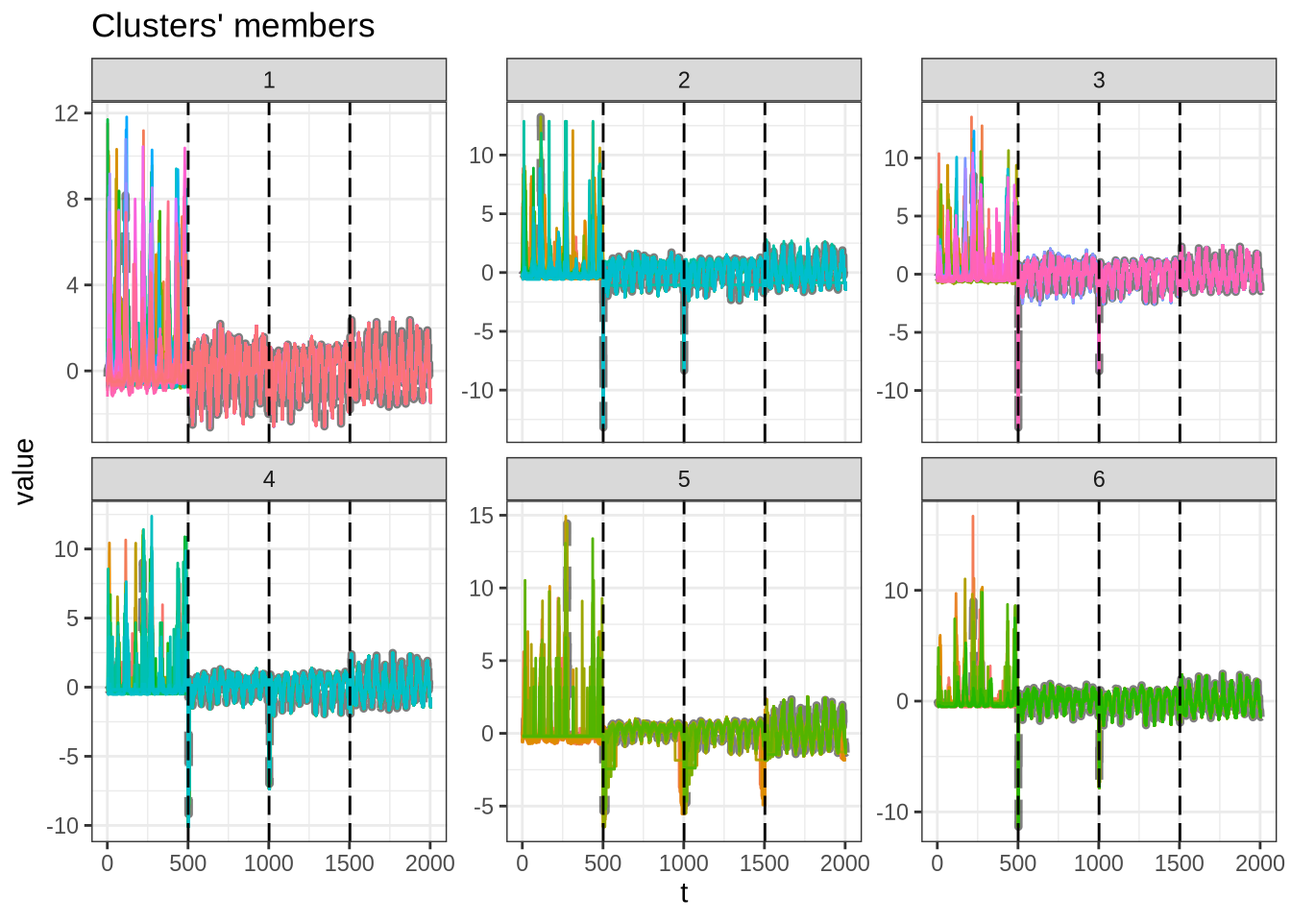
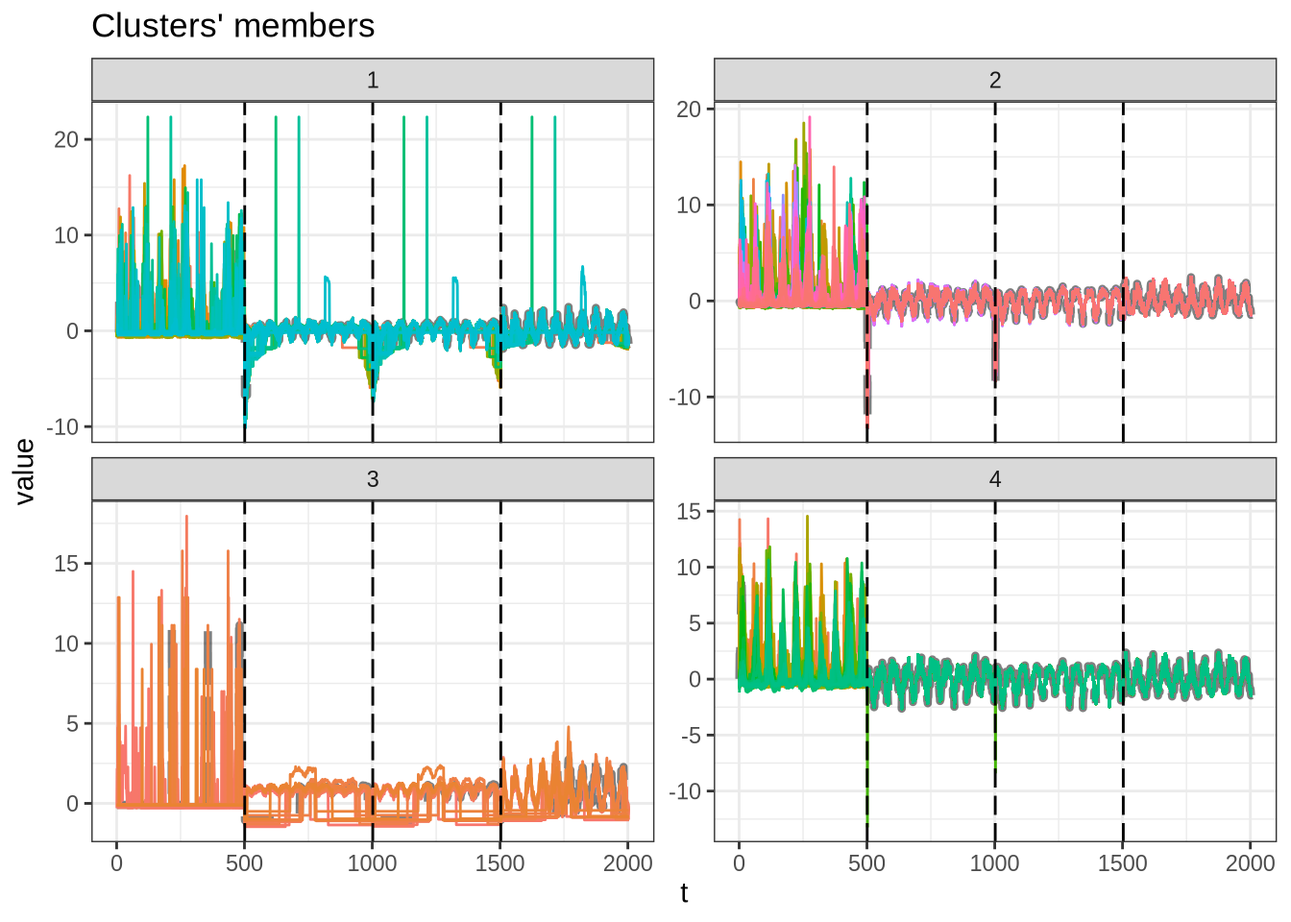
cluster run

diff --git a/docs/dengue-cluster/cluster_multivariate_all.html b/docs/dengue-cluster/cluster_multivariate_all.html
@@ -644,13 +644,13 @@ gtag('config', 'G-ZMP18L536K', { 'anonymize_ip': true});
 <span id="cb2-4"><a href="#cb2-4" aria-hidden="true" tabindex="-1"></a></span>
 <span id="cb2-5"><a href="#cb2-5" aria-hidden="true" tabindex="-1"></a><span class="fu">dim</span>(tdengue)</span></code><button title="Copy to Clipboard" class="code-copy-button"><i class="bi"></i></button></pre></div>
 <div class="cell-output cell-output-stdout">
-<pre><code>[1] 163326      6</code></pre>
+<pre><code>[1] 340179      6</code></pre>
 </div>
 </div>
 <div class="cell">
 <div class="sourceCode cell-code" id="cb4"><pre class="sourceCode r code-with-copy"><code class="sourceCode r"><span id="cb4-1"><a href="#cb4-1" aria-hidden="true" tabindex="-1"></a><span class="fu">length</span>(<span class="fu">unique</span>(tdengue<span class="sc">$</span>mun))</span></code><button title="Copy to Clipboard" class="code-copy-button"><i class="bi"></i></button></pre></div>
 <div class="cell-output cell-output-stdout">
-<pre><code>[1] 326</code></pre>
+<pre><code>[1] 679</code></pre>
 </div>
 </div>
 <p>Data for maps.</p>
@@ -692,11 +692,11 @@ gtag('config', 'G-ZMP18L536K', { 'anonymize_ip': true});
   ..- attr(*, "dimnames")=List of 2
   .. ..$ : NULL
   .. ..$ : chr [1:4] "cases" "tmax" "tmin" "prec"
- $ 110012: num [1:501, 1:4] -0.4493 0.6488 1.1979 0.0997 0.0997 ...
+ $ 110004: num [1:501, 1:4] -0.3964 -0.1824 0.0316 -0.3964 0.0316 ...
   ..- attr(*, "dimnames")=List of 2
   .. ..$ : NULL
   .. ..$ : chr [1:4] "cases" "tmax" "tmin" "prec"
- $ 110020: num [1:501, 1:4] -0.5195 0.1563 0.0718 -0.1816 0.3253 ...
+ $ 110011: num [1:501, 1:4] -0.392 -0.392 -0.392 -0.392 -0.392 ...
   ..- attr(*, "dimnames")=List of 2
   .. ..$ : NULL
   .. ..$ : chr [1:4] "cases" "tmax" "tmin" "prec"</code></pre>
@@ -716,7 +716,7 @@ gtag('config', 'G-ZMP18L536K', { 'anonymize_ip': true});
 <span id="cb14-7"><a href="#cb14-7" aria-hidden="true" tabindex="-1"></a>)</span>
 <span id="cb14-8"><a href="#cb14-8" aria-hidden="true" tabindex="-1"></a><span class="fu">toc</span>()</span></code><button title="Copy to Clipboard" class="code-copy-button"><i class="bi"></i></button></pre></div>
 <div class="cell-output cell-output-stdout">
-<pre><code>8.622 sec elapsed</code></pre>
+<pre><code>36.448 sec elapsed</code></pre>
 </div>
 </div>
 <section id="cluster-validity-indices-cvi" class="level3">
@@ -731,8 +731,8 @@ gtag('config', 'G-ZMP18L536K', { 'anonymize_ip': true});
 <span id="cb16-7"><a href="#cb16-7" aria-hidden="true" tabindex="-1"></a><span class="fu">datatable</span>(res_cvi)</span></code><button title="Copy to Clipboard" class="code-copy-button"><i class="bi"></i></button></pre></div>
 <div class="cell-output-display">
 
-<div class="datatables html-widget html-fill-item-overflow-hidden html-fill-item" id="htmlwidget-2228f0057e4179a1f21e" style="width:100%;height:auto;"></div>
-<script type="application/json" data-for="htmlwidget-2228f0057e4179a1f21e">{"x":{"filter":"none","vertical":false,"data":[["1","2","3","4","5","6","7","8","9","10","11","12","13","14","15","16","17","18"],["k_6","k_5","k_14","k_4","k_11","k_15","k_10","k_3","k_19","k_8","k_20","k_17","k_9","k_18","k_16","k_12","k_13","k_7"],[0.1530297469356477,0.1440762044713745,0.1400584225015963,0.1354547579634003,0.1208323157407356,0.1105893378279768,0.1095486174706609,0.1094875020359826,0.1089257116601769,0.09797794633096432,0.09210995555770808,0.09154821081714312,0.08908547609352244,0.08260358364305846,0.08129072667558394,0.07136656410796276,0.06131959166201611,0.03334285681935422],[0,0,0,0,0,0,0,0,0,0,0,0,0,0,0,0,0,0],[66.03871539724065,70.83730006839602,31.05107538599962,73.72133754541019,36.74893705232316,28.20357775100776,37.92326564538576,132.799072097871,23.39248613274816,46.02250861410634,22.58194920998412,26.34562406898972,41.3226490792125,23.70068122356517,25.71442726657208,34.46339975166363,32.37456572009118,39.47010817257704],[2.016717468165261,1.939575756275471,1.569492045784807,1.80846374856984,1.796855644968916,1.82821826051781,1.95121179376399,1.799833628541421,1.807197655292344,2.345528320027988,1.722026296063557,1.938822173588695,2.109041983689778,2.018107368640858,1.794717064569474,2.306726907779244,2.044140737665228,2.491651988726502],[2.831176268818642,2.347999367208251,1.951876574122824,1.819376903904833,2.284181270249329,2.69986132475828,2.646232116412836,1.876632643543888,2.300494532526559,3.133500281328306,2.29180932440963,2.597457610600983,2.915782300990952,2.656927220913814,2.672091378347231,2.968123486807218,2.857604373450767,2.757466387210257],[0.06404119331825649,0.05293480520822988,0.07478527348838045,0.07474487852441768,0.06461003914169353,0.09877742552571456,0.09261909518077052,0.05288796621815163,0.1010807627526162,0.06404119331825649,0.1020234877438586,0.07528597865196485,0.06974269565671985,0.05311861964957065,0.06407529214486364,0.0469497174971813,0.04481128132921332,0.05903396603380133],[0.2750364644880977,0.29375881890079,0.2368916791190641,0.3655863370523117,0.2495944625836389,0.2381982078210064,0.251850261562682,0.3672949506522975,0.2234764172064207,0.2688587067005322,0.2203517930010253,0.2249012289596225,0.2632677092874243,0.2320771535639892,0.2380825819007399,0.2470739370001668,0.2455732801168612,0.3216543774674874]],"container":"<table class=\"display\">\n  <thead>\n    <tr>\n      <th> <\/th>\n      <th>k<\/th>\n      <th>Sil<\/th>\n      <th>SF<\/th>\n      <th>CH<\/th>\n      <th>DB<\/th>\n      <th>DBstar<\/th>\n      <th>D<\/th>\n      <th>COP<\/th>\n    <\/tr>\n  <\/thead>\n<\/table>","options":{"columnDefs":[{"className":"dt-right","targets":[2,3,4,5,6,7,8]},{"orderable":false,"targets":0}],"order":[],"autoWidth":false,"orderClasses":false},"selection":{"mode":"multiple","selected":null,"target":"row","selectable":null}},"evals":[],"jsHooks":[]}</script>
+<div class="datatables html-widget html-fill-item-overflow-hidden html-fill-item" id="htmlwidget-8dbda73ab474727ec260" style="width:100%;height:auto;"></div>
+<script type="application/json" data-for="htmlwidget-8dbda73ab474727ec260">{"x":{"filter":"none","vertical":false,"data":[["1","2","3","4","5","6","7","8","9","10","11","12","13","14","15","16","17","18"],["k_4","k_3","k_6","k_14","k_5","k_11","k_8","k_7","k_20","k_9","k_19","k_10","k_16","k_15","k_13","k_12","k_18","k_17"],[0.2579966108105268,0.222003513340281,0.1940848242336921,0.1603462959087116,0.1408051171738664,0.1198010833966462,0.1168796085403005,0.1102495462483977,0.1005634159177213,0.09701193998484331,0.09317547525047665,0.09198938214383687,0.09193315470589795,0.0903714377163376,0.08679094836253091,0.04728573441530437,0.04651389641668757,0.02830600718012035],[0,0,0,0,0,0,0,0,0,0,0,0,0,0,0,0,0,0],[208.0685886679036,261.5026959680235,130.4655024406249,72.07702462214986,170.9633359795715,84.34174695632748,77.4429961054129,125.9068896745097,51.93713964585567,95.62065919765602,49.98069606833911,76.70149700390195,58.93594265437236,58.0581565656983,73.50933405468341,63.65979599574922,49.18129182084131,52.62533978880315],[1.209641169200358,1.6985977195809,1.919409697371403,1.805195576590609,1.707285961562169,2.267250561388554,2.433620070193141,1.906918124639444,2.020573584159897,1.811837705195486,2.035899119828682,2.144914150547419,2.161829461796213,2.277535085175582,1.680065889820462,2.139457333691512,2.32488743717625,2.544158035553971],[1.388821641530677,1.858941500608313,2.480044646442662,2.234169531931442,2.200081375326834,3.230101107065129,3.287115726187246,2.401993652475728,2.639877185675683,2.369446379087012,2.644868268877131,2.603413803675805,2.989550402332914,2.738664008104241,2.514077583972165,3.046887210508611,3.27479631386645,3.623229739807331],[0.04623492839976677,0.04623492839976677,0.05708222609110557,0.03997317877205291,0.05724694180353935,0.04585091484265355,0.0612818933157248,0.04700333737426738,0.03050685626010153,0.04761684327152707,0.04444298708332996,0.04723643483074268,0.0466129416408682,0.04510162762339438,0.05094497672178931,0.04629757569928765,0.03170409573216738,0.04063751957176565],[0.2763202711483752,0.3275502084423959,0.2692042591368208,0.2054671866711874,0.2809295824974267,0.2248800208336796,0.2857369998102969,0.2536575486220644,0.1977004642347356,0.2393425953127742,0.2103113665348897,0.2499245873936215,0.2222008498448561,0.2337980317455434,0.226198714699332,0.2467854729960304,0.2334042477223152,0.2278244658116685]],"container":"<table class=\"display\">\n  <thead>\n    <tr>\n      <th> <\/th>\n      <th>k<\/th>\n      <th>Sil<\/th>\n      <th>SF<\/th>\n      <th>CH<\/th>\n      <th>DB<\/th>\n      <th>DBstar<\/th>\n      <th>D<\/th>\n      <th>COP<\/th>\n    <\/tr>\n  <\/thead>\n<\/table>","options":{"columnDefs":[{"className":"dt-right","targets":[2,3,4,5,6,7,8]},{"orderable":false,"targets":0}],"order":[],"autoWidth":false,"orderClasses":false},"selection":{"mode":"multiple","selected":null,"target":"row","selectable":null}},"evals":[],"jsHooks":[]}</script>
 </div>
 </div>
 <div class="cell">
@@ -750,8 +750,8 @@ gtag('config', 'G-ZMP18L536K', { 'anonymize_ip': true});
 <div class="sourceCode cell-code" id="cb18"><pre class="sourceCode r code-with-copy"><code class="sourceCode r"><span id="cb18-1"><a href="#cb18-1" aria-hidden="true" tabindex="-1"></a><span class="fu">table</span>(m_sel_clust<span class="sc">@</span>cluster)</span></code><button title="Copy to Clipboard" class="code-copy-button"><i class="bi"></i></button></pre></div>
 <div class="cell-output cell-output-stdout">
 <pre><code>
- 1  2  3  4  5  6 
-91 48 84 47 27 29 </code></pre>
+  1   2   3   4 
+178 342  18 141 </code></pre>
 </div>
 </div>
 </section>
@@ -781,8 +781,8 @@ gtag('config', 'G-ZMP18L536K', { 'anonymize_ip': true});
 <span id="cb23-5"><a href="#cb23-5" aria-hidden="true" tabindex="-1"></a>  <span class="fu">datatable</span>()</span></code><button title="Copy to Clipboard" class="code-copy-button"><i class="bi"></i></button></pre></div>
 <div class="cell-output-display">
 
-<div class="datatables html-widget html-fill-item-overflow-hidden html-fill-item" id="htmlwidget-0a0473e6474226addf1e" style="width:100%;height:auto;"></div>
-<script type="application/json" data-for="htmlwidget-0a0473e6474226addf1e">{"x":{"filter":"none","vertical":false,"data":[["1","2","3","4","5","6","7","8","9","10","11","12","13","14","15","16","17","18","19","20","21","22","23","24","25","26","27","28","29","30","31","32","33","34","35","36","37","38","39","40","41","42","43","44","45","46","47","48","49","50","51","52","53","54","55","56","57","58","59","60","61","62","63","64","65","66","67","68","69","70","71","72","73","74","75","76","77","78","79","80","81","82","83","84","85","86","87","88","89","90","91","92","93","94","95","96","97","98","99","100","101","102","103","104","105","106","107","108","109","110","111","112","113","114","115","116","117","118","119","120","121","122","123","124","125","126","127","128","129","130","131","132","133","134","135","136","137","138","139","140","141","142","143","144","145","146","147","148","149","150","151","152","153","154","155","156","157","158","159","160","161","162","163","164","165","166","167","168","169","170","171","172","173","174","175","176","177","178","179","180","181","182","183","184","185","186","187","188","189","190","191","192","193","194","195","196","197","198","199","200","201","202","203","204","205","206","207","208","209","210","211","212","213","214","215","216","217","218","219","220","221","222","223","224","225","226","227","228","229","230","231","232","233","234","235","236","237","238","239","240","241","242","243","244","245","246","247","248","249","250","251","252","253","254","255","256","257","258","259","260","261","262","263","264","265","266","267","268","269","270","271","272","273","274","275","276","277","278","279","280","281","282","283","284","285","286","287","288","289","290","291","292","293","294","295","296","297","298","299","300","301","302","303","304","305","306","307","308","309","310","311","312","313","314","315","316","317","318","319","320","321","322","323","324","325","326"],["1","1","1","1","1","1","1","1","1","1","1","1","1","1","1","1","1","1","1","1","1","1","1","1","1","1","1","1","1","1","1","1","1","1","1","1","1","1","1","1","1","1","1","1","1","1","1","1","1","1","1","1","1","1","1","1","1","1","1","1","1","1","1","1","1","1","1","1","1","1","1","1","1","1","1","1","1","1","1","1","1","1","1","1","1","1","1","1","1","1","1","2","2","2","2","2","2","2","2","2","2","2","2","2","2","2","2","2","2","2","2","2","2","2","2","2","2","2","2","2","2","2","2","2","2","2","2","2","2","2","2","2","2","2","2","2","2","2","2","3","3","3","3","3","3","3","3","3","3","3","3","3","3","3","3","3","3","3","3","3","3","3","3","3","3","3","3","3","3","3","3","3","3","3","3","3","3","3","3","3","3","3","3","3","3","3","3","3","3","3","3","3","3","3","3","3","3","3","3","3","3","3","3","3","3","3","3","3","3","3","3","3","3","3","3","3","3","3","3","3","3","3","3","4","4","4","4","4","4","4","4","4","4","4","4","4","4","4","4","4","4","4","4","4","4","4","4","4","4","4","4","4","4","4","4","4","4","4","4","4","4","4","4","4","4","4","4","4","4","4","5","5","5","5","5","5","5","5","5","5","5","5","5","5","5","5","5","5","5","5","5","5","5","5","5","5","5","6","6","6","6","6","6","6","6","6","6","6","6","6","6","6","6","6","6","6","6","6","6","6","6","6","6","6","6","6"],["Abaetetuba","Alagoinhas","Altamira","Ananindeua","Aparecida De Goiânia","Aracaju","Araguari","Araguaína","Araraquara","Barreiras","Belo Horizonte","Belém","Boa Vista","Bragança","Brasília","Cametá","Campo Grande","Campos Dos Goytacazes","Castanhal","Catalão","Caucaia","Caxias","Coronel Fabriciano","Crato","Cuiabá","Duque De Caxias","Feira De Santana","Fortaleza","Foz Do Iguaçu","Goiânia","Governador Valadares","Guarapari","Igarassu","Iguatu","Imperatriz","Ipatinga","Itaituba","Itapipoca","João Pessoa","Juiz De Fora","Linhares","Londrina","Luziânia","Macapá","Macaé","Manaus","Marabá","Maracanaú","Marituba","Mossoró","Natal","Nilópolis","Niterói","Nova Iguaçu","Palmas","Parauapebas","Parintins","Patos","Patos De Minas","Petrópolis","Recife","Ribeirão Preto","Rio Branco","Rio Claro","Rio De Janeiro","Rio Verde","Salvador","Santa Luzia","Santana","Santarém","Senador Canedo","Sinop","Sumaré","São Félix Do Xingu","São Gonçalo","São José De Ribamar","São José Do Rio Preto","São José Dos Campos","São João De Meriti","São Luís","São Paulo","Taubaté","Teresina","Trindade","Tucuruí","Uberaba","Uberlândia","Varginha","Vespasiano","Vitória Da Conquista","Vitória De Santo Antão","Araruama","Ariquemes","Bagé","Barcarena","Barretos","Belford Roxo","Cabo Frio","Campina Grande","Corumbá","Cubatão","Eunápolis","Formosa","Garanhuns","Itaboraí","Itaperuna","Ituiutaba","Itumbiara","Japeri","Jequié","Juazeiro Do Norte","Lagarto","Magé","Maricá","Maringá","Mesquita","Montes Claros","Nova Serrana","Paragominas","Porto Seguro","Porto Velho","Praia Grande","Ribeirão Das Neves","Rio Das Ostras","Rondonópolis","Sabará","Santo Antônio De Jesus","Santos","Simões Filho","São Pedro Da Aldeia","São Vicente","Tailândia","Tangará Da Serra","Teófilo Otoni","Toledo","Três Lagoas","Ubá","Uruguaiana","Vilhena","Abreu E Lima","Americana","Angra Dos Reis","Anápolis","Arapiraca","Araxá","Araçatuba","Assis","Atibaia","Açailândia","Bacabal","Barueri","Bauru","Betim","Cabo De Santo Agostinho","Camaragibe","Camaçari","Campinas","Catanduva","Contagem","Curitiba","Diadema","Dourados","Embu","Franca","Francisco Morato","Guarujá","Guarulhos","Hortolândia","Ilhéus","Itabira","Itabuna","Itacoatiara","Itapecerica Da Serra","Itapevi","Itaquaquecetuba","Itatiba","Jaboatão Dos Guararapes","Jacareí","Jataí","Ji-Paraná","Juazeiro","Jundiaí","Lauro De Freitas","Lavras","Limeira","Maceió","Marília","Mogi Das Cruzes","Mogi Guaçu","Muriaé","Olinda","Osasco","Ourinhos","Parnamirim","Parnaíba","Passos","Paulista","Paulo Afonso","Paulínia","Paço Do Lumiar","Petrolina","Pindamonhangaba","Piracicaba","Ponta Grossa","Porto Alegre","Presidente Prudente","Resende","Santa Bárbara D'oeste","Santa Rita","Santo André","Sertãozinho","Sobral","Sorocaba","São Bernardo Do Campo","São Carlos","São Gonçalo Do Amarante","São José","São José Dos Pinhais","São Lourenço Da Mata","Timon","Valparaíso De Goiás","Volta Redonda","Várzea Grande","Apucarana","Araucária","Balneário Camboriú","Barbacena","Barra Do Piraí","Botucatu","Brusque","Cachoeirinha","Caieiras","Caraguatatuba","Carapicuíba","Caxias Do Sul","Codó","Colombo","Conselheiro Lafaiete","Cotia","Criciúma","Florianópolis","Franco Da Rocha","Guaratinguetá","Ibirité","Indaiatuba","Itajaí","Itanhaém","Itapetininga","Jaraguá Do Sul","Joinville","Leme","Nossa Senhora Do Socorro","Novo Hamburgo","Palhoça","Passo Fundo","Pinhais","Poços De Caldas","Queimados","Ribeirão Pires","Rio Grande","Salto","Santa Maria","Santana De Parnaíba","Taboão Da Serra","Teixeira De Freitas","Umuarama","Viamão","Votorantim","Várzea Paulista","Águas Lindas De Goiás","Alvorada","Aracruz","Bento Gonçalves","Breves","Cachoeiro De Itapemirim","Campo Largo","Canoas","Cariacica","Colatina","Erechim","Fazenda Rio Grande","Gravataí","Guarapuava","Lages","Mairiporã","Paranaguá","Pelotas","Piraquara","Santa Cruz Do Sul","Sapucaia Do Sul","Serra","São Leopoldo","São Mateus","Tatuí","Tubarão","Vila Velha","Vitória","Almirante Tamandaré","Arapongas","Araras","Barra Mansa","Birigui","Blumenau","Bragança Paulista","Cambé","Caruaru","Cascavel","Chapecó","Divinópolis","Ferraz De Vasconcelos","Itaguaí","Itu","Jandira","Jaú","Maranguape","Mauá","Nova Friburgo","Novo Gama","Pouso Alegre","Poá","Santa Cruz Do Capibaribe","Sete Lagoas","Suzano","São Caetano Do Sul","Teresópolis","Valinhos"],["PA","BA","PA","PA","GO","SE","MG","TO","SP","BA","MG","PA","RR","PA","DF","PA","MS","RJ","PA","GO","CE","MA","MG","CE","MT","RJ","BA","CE","PR","GO","MG","ES","PE","CE","MA","MG","PA","CE","PB","MG","ES","PR","GO","AP","RJ","AM","PA","CE","PA","RN","RN","RJ","RJ","RJ","TO","PA","AM","PB","MG","RJ","PE","SP","AC","SP","RJ","GO","BA","MG","AP","PA","GO","MT","SP","PA","RJ","MA","SP","SP","RJ","MA","SP","SP","PI","GO","PA","MG","MG","MG","MG","BA","PE","RJ","RO","RS","PA","SP","RJ","RJ","PB","MS","SP","BA","GO","PE","RJ","RJ","MG","GO","RJ","BA","CE","SE","RJ","RJ","PR","RJ","MG","MG","PA","BA","RO","SP","MG","RJ","MT","MG","BA","SP","BA","RJ","SP","PA","MT","MG","PR","MS","MG","RS","RO","PE","SP","RJ","GO","AL","MG","SP","SP","SP","MA","MA","SP","SP","MG","PE","PE","BA","SP","SP","MG","PR","SP","MS","SP","SP","SP","SP","SP","SP","BA","MG","BA","AM","SP","SP","SP","SP","PE","SP","GO","RO","BA","SP","BA","MG","SP","AL","SP","SP","SP","MG","PE","SP","SP","RN","PI","MG","PE","BA","SP","MA","PE","SP","SP","PR","RS","SP","RJ","SP","PB","SP","SP","CE","SP","SP","SP","RN","SC","PR","PE","MA","GO","RJ","MT","PR","PR","SC","MG","RJ","SP","SC","RS","SP","SP","SP","RS","MA","PR","MG","SP","SC","SC","SP","SP","MG","SP","SC","SP","SP","SC","SC","SP","SE","RS","SC","RS","PR","MG","RJ","SP","RS","SP","RS","SP","SP","BA","PR","RS","SP","SP","GO","RS","ES","RS","PA","ES","PR","RS","ES","ES","RS","PR","RS","PR","SC","SP","PR","RS","PR","RS","RS","ES","RS","ES","SP","SC","ES","ES","PR","PR","SP","RJ","SP","SC","SP","PR","PE","PR","SC","MG","SP","RJ","SP","SP","SP","CE","SP","RJ","GO","MG","SP","PE","MG","SP","SP","RJ","SP"]],"container":"<table class=\"display\">\n  <thead>\n    <tr>\n      <th> <\/th>\n      <th>group<\/th>\n      <th>name_muni<\/th>\n      <th>abbrev_state<\/th>\n    <\/tr>\n  <\/thead>\n<\/table>","options":{"columnDefs":[{"orderable":false,"targets":0}],"order":[],"autoWidth":false,"orderClasses":false},"selection":{"mode":"multiple","selected":null,"target":"row","selectable":null}},"evals":[],"jsHooks":[]}</script>
+<div class="datatables html-widget html-fill-item-overflow-hidden html-fill-item" id="htmlwidget-2228f0057e4179a1f21e" style="width:100%;height:auto;"></div>
+<script type="application/json" data-for="htmlwidget-2228f0057e4179a1f21e">{"x":{"filter":"none","vertical":false,"data":[["1","2","3","4","5","6","7","8","9","10","11","12","13","14","15","16","17","18","19","20","21","22","23","24","25","26","27","28","29","30","31","32","33","34","35","36","37","38","39","40","41","42","43","44","45","46","47","48","49","50","51","52","53","54","55","56","57","58","59","60","61","62","63","64","65","66","67","68","69","70","71","72","73","74","75","76","77","78","79","80","81","82","83","84","85","86","87","88","89","90","91","92","93","94","95","96","97","98","99","100","101","102","103","104","105","106","107","108","109","110","111","112","113","114","115","116","117","118","119","120","121","122","123","124","125","126","127","128","129","130","131","132","133","134","135","136","137","138","139","140","141","142","143","144","145","146","147","148","149","150","151","152","153","154","155","156","157","158","159","160","161","162","163","164","165","166","167","168","169","170","171","172","173","174","175","176","177","178","179","180","181","182","183","184","185","186","187","188","189","190","191","192","193","194","195","196","197","198","199","200","201","202","203","204","205","206","207","208","209","210","211","212","213","214","215","216","217","218","219","220","221","222","223","224","225","226","227","228","229","230","231","232","233","234","235","236","237","238","239","240","241","242","243","244","245","246","247","248","249","250","251","252","253","254","255","256","257","258","259","260","261","262","263","264","265","266","267","268","269","270","271","272","273","274","275","276","277","278","279","280","281","282","283","284","285","286","287","288","289","290","291","292","293","294","295","296","297","298","299","300","301","302","303","304","305","306","307","308","309","310","311","312","313","314","315","316","317","318","319","320","321","322","323","324","325","326","327","328","329","330","331","332","333","334","335","336","337","338","339","340","341","342","343","344","345","346","347","348","349","350","351","352","353","354","355","356","357","358","359","360","361","362","363","364","365","366","367","368","369","370","371","372","373","374","375","376","377","378","379","380","381","382","383","384","385","386","387","388","389","390","391","392","393","394","395","396","397","398","399","400","401","402","403","404","405","406","407","408","409","410","411","412","413","414","415","416","417","418","419","420","421","422","423","424","425","426","427","428","429","430","431","432","433","434","435","436","437","438","439","440","441","442","443","444","445","446","447","448","449","450","451","452","453","454","455","456","457","458","459","460","461","462","463","464","465","466","467","468","469","470","471","472","473","474","475","476","477","478","479","480","481","482","483","484","485","486","487","488","489","490","491","492","493","494","495","496","497","498","499","500","501","502","503","504","505","506","507","508","509","510","511","512","513","514","515","516","517","518","519","520","521","522","523","524","525","526","527","528","529","530","531","532","533","534","535","536","537","538","539","540","541","542","543","544","545","546","547","548","549","550","551","552","553","554","555","556","557","558","559","560","561","562","563","564","565","566","567","568","569","570","571","572","573","574","575","576","577","578","579","580","581","582","583","584","585","586","587","588","589","590","591","592","593","594","595","596","597","598","599","600","601","602","603","604","605","606","607","608","609","610","611","612","613","614","615","616","617","618","619","620","621","622","623","624","625","626","627","628","629","630","631","632","633","634","635","636","637","638","639","640","641","642","643","644","645","646","647","648","649","650","651","652","653","654","655","656","657","658","659","660","661","662","663","664","665","666","667","668","669","670","671","672","673","674","675","676","677","678","679"],["1","1","1","1","1","1","1","1","1","1","1","1","1","1","1","1","1","1","1","1","1","1","1","1","1","1","1","1","1","1","1","1","1","1","1","1","1","1","1","1","1","1","1","1","1","1","1","1","1","1","1","1","1","1","1","1","1","1","1","1","1","1","1","1","1","1","1","1","1","1","1","1","1","1","1","1","1","1","1","1","1","1","1","1","1","1","1","1","1","1","1","1","1","1","1","1","1","1","1","1","1","1","1","1","1","1","1","1","1","1","1","1","1","1","1","1","1","1","1","1","1","1","1","1","1","1","1","1","1","1","1","1","1","1","1","1","1","1","1","1","1","1","1","1","1","1","1","1","1","1","1","1","1","1","1","1","1","1","1","1","1","1","1","1","1","1","1","1","1","1","1","1","1","1","1","1","1","1","2","2","2","2","2","2","2","2","2","2","2","2","2","2","2","2","2","2","2","2","2","2","2","2","2","2","2","2","2","2","2","2","2","2","2","2","2","2","2","2","2","2","2","2","2","2","2","2","2","2","2","2","2","2","2","2","2","2","2","2","2","2","2","2","2","2","2","2","2","2","2","2","2","2","2","2","2","2","2","2","2","2","2","2","2","2","2","2","2","2","2","2","2","2","2","2","2","2","2","2","2","2","2","2","2","2","2","2","2","2","2","2","2","2","2","2","2","2","2","2","2","2","2","2","2","2","2","2","2","2","2","2","2","2","2","2","2","2","2","2","2","2","2","2","2","2","2","2","2","2","2","2","2","2","2","2","2","2","2","2","2","2","2","2","2","2","2","2","2","2","2","2","2","2","2","2","2","2","2","2","2","2","2","2","2","2","2","2","2","2","2","2","2","2","2","2","2","2","2","2","2","2","2","2","2","2","2","2","2","2","2","2","2","2","2","2","2","2","2","2","2","2","2","2","2","2","2","2","2","2","2","2","2","2","2","2","2","2","2","2","2","2","2","2","2","2","2","2","2","2","2","2","2","2","2","2","2","2","2","2","2","2","2","2","2","2","2","2","2","2","2","2","2","2","2","2","2","2","2","2","2","2","2","2","2","2","2","2","2","2","2","2","2","2","2","2","2","2","2","2","2","2","2","2","2","2","2","2","2","2","2","2","2","2","2","2","2","2","2","2","2","2","2","2","2","2","2","2","2","2","2","2","2","2","2","2","2","2","2","2","2","2","3","3","3","3","3","3","3","3","3","3","3","3","3","3","3","3","3","3","4","4","4","4","4","4","4","4","4","4","4","4","4","4","4","4","4","4","4","4","4","4","4","4","4","4","4","4","4","4","4","4","4","4","4","4","4","4","4","4","4","4","4","4","4","4","4","4","4","4","4","4","4","4","4","4","4","4","4","4","4","4","4","4","4","4","4","4","4","4","4","4","4","4","4","4","4","4","4","4","4","4","4","4","4","4","4","4","4","4","4","4","4","4","4","4","4","4","4","4","4","4","4","4","4","4","4","4","4","4","4","4","4","4","4","4","4","4","4","4","4","4","4","4","4","4","4","4","4","4","4","4","4","4","4","4","4","4","4","4","4"],["Alegrete","Alfenas","Alvorada","Araci","Aracruz","Araranguá","Araucária","Artur Nogueira","Barbacena","Barreirinhas","Bayeux","Bento Gonçalves","Bezerros","Biguaçu","Botucatu","Brejo Da Madre De Deus","Breu Branco","Breves","Buriticupu","Buíque","Cachoeira Do Sul","Cachoeirinha","Cachoeiro De Itapemirim","Caetité","Cajazeiras","Camaquã","Camboriú","Campo Belo","Campo Formoso","Campo Largo","Campo Limpo Paulista","Campo Mourão","Campos Do Jordão","Candeias","Canoas","Capitão Poço","Carazinho","Cariacica","Casa Nova","Catu","Caxias Do Sul","Caçador","Caçapava","Cerquilho","Codó","Colatina","Colombo","Concórdia","Congonhas","Coruripe","Cosmópolis","Cotia","Criciúma","Cristalina","Cruz Alta","Cruz Das Almas","Dias D'ávila","Dom Eliseu","Embu-Guaçu","Erechim","Escada","Esmeraldas","Esteio","Estância Velha","Euclides Da Cunha","Fazenda Rio Grande","Formiga","Franco Da Rocha","Gaspar","Gravataí","Guapimirim","Guarapuava","Guaíba","Ibirité","Ibiúna","Ijuí","Indaial","Ipirá","Irati","Itaberaba","Itamaraju","Itapema","Itapetinga","Itapetininga","Itapeva","Itararé","Itaúna","Itupeva","Itupiranga","Içara","Jaru","Joinville","Lages","Lajeado","Leme","Lençóis Paulista","Mafra","Mairiporã","Manicoré","Mariana","Navegantes","Nossa Senhora Do Socorro","Nova Odessa","Nova Venécia","Novo Hamburgo","Ouro Preto","Palmas","Paracambi","Paranaguá","Paranavaí","Pará De Minas","Passo Fundo","Pato Branco","Pedro Leopoldo","Pelotas","Penápolis","Pesqueira","Picos","Piedade","Pinhais","Pinheiro","Piraquara","Portel","Porto Feliz","Poços De Caldas","Registro","Ribeirão Pires","Rio Grande","Rio Grande Da Serra","Rolim De Moura","Rondon Do Pará","Santa Cruz Do Sul","Santa Maria","Santa Rosa","Santana Do Araguaia","Santo Estêvão","Santo Ângelo","Sapiranga","Sapucaia Do Sul","Sapé","Serra","São Bento Do Sul","São Bento Do Una","São Borja","São Cristóvão","São Francisco Do Sul","São João Da Boa Vista","São João Del Rei","São Leopoldo","São Mateus","São Miguel Do Guamá","São Roque","Taquara","Taquaritinga","Tatuí","Teixeira De Freitas","Telêmaco Borba","Tomé-Açu","Três Pontas","Três Rios","Tubarão","Umuarama","Unaí","União Dos Palmares","Valença","Vargem Grande Paulista","Venâncio Aires","Viamão","Viana","Viana","Videira","Vigia","Vila Velha","Vinhedo","Vitória","Viçosa Do Ceará","Votorantim","Xanxerê","Abreu E Lima","Acaraú","Alenquer","Almirante Tamandaré","Alta Floresta","Americana","Angra Dos Reis","Anápolis","Apucarana","Aquiraz","Aracati","Arapiraca","Arapongas","Araras","Araripina","Araruama","Araxá","Araçatuba","Arcoverde","Ariquemes","Arujá","Assis","Atibaia","Avaré","Açailândia","Açu","Bacabal","Balneário Camboriú","Balsas","Barbalha","Barcarena","Barra","Barra Do Garças","Barra Do Piraí","Barra Mansa","Barretos","Barueri","Batatais","Bauru","Bebedouro","Beberibe","Belford Roxo","Belo Jardim","Benevides","Bertioga","Betim","Birigui","Blumenau","Bocaiúva","Boituva","Bom Despacho","Bragança Paulista","Brusque","Cabedelo","Cabo De Santo Agostinho","Cabo Frio","Cabreúva","Cachoeiras De Macacu","Cacoal","Caicó","Caieiras","Cajamar","Camaragibe","Camaçari","Cambé","Camocim","Campina Grande","Campo Alegre","Canindé","Capanema","Capivari","Caraguatatuba","Carapicuíba","Caratinga","Caruaru","Cascavel","Cataguases","Catanduva","Ceará-Mirim","Chapecó","Cianorte","Cidade Ocidental","Conceição Do Coité","Conselheiro Lafaiete","Contagem","Coroatá","Corumbá","Cruzeiro","Cruzeiro Do Sul","Cubatão","Curitiba","Cáceres","Delmiro Gouveia","Diadema","Divinópolis","Dourados","Embu","Estância","Eunápolis","Eusébio","Fernandópolis","Ferraz De Vasconcelos","Floriano","Florianópolis","Formosa","Franca","Francisco Beltrão","Francisco Morato","Frutal","Garanhuns","Goiana","Grajaú","Gravatá","Guanambi","Guarabira","Guaratinguetá","Guarujá","Guarulhos","Guaxupé","Horizonte","Hortolândia","Humaitá","Ibiporã","Ibitinga","Igarapé-Miri","Ilhéus","Indaiatuba","Inhumas","Ipixuna Do Pará","Ipojuca","Itabaiana","Itabira","Itabirito","Itaboraí","Itabuna","Itacoatiara","Itaguaí","Itajaí","Itajubá","Itanhaém","Itapagé","Itapecerica Da Serra","Itapecuru Mirim","Itaperuna","Itapevi","Itapira","Itaquaquecetuba","Itatiba","Itu","Ituiutaba","Itumbiara","Jaboatão Dos Guararapes","Jaboticabal","Jacareí","Jaguaquara","Jaguariúna","Janaúba","Jandira","Januária","Japeri","Jaraguá","Jaraguá Do Sul","Jataí","Jaú","Jequié","Ji-Paraná","João Monlevade","Juazeiro","Juazeiro Do Norte","Jundiaí","Juruti","Lagarto","Lago Da Pedra","Lagoa Da Prata","Lagoa Santa","Lauro De Freitas","Lavras","Leopoldina","Limeira","Limoeiro Do Norte","Lins","Lorena","Louveira","Lucas Do Rio Verde","Luís Eduardo Magalhães","Macaíba","Macaúbas","Maceió","Magé","Manhuaçu","Maranguape","Marechal Cândido Rondon","Marechal Deodoro","Maringá","Marília","Matão","Mauá","Maués","Mesquita","Mirassol","Mococa","Mogi Das Cruzes","Mogi Guaçu","Moji Mirim","Mongaguá","Monte Alto","Monte Mor","Montenegro","Montes Claros","Morada Nova","Moreno","Muriaé","Nova Andradina","Nova Friburgo","Nova Serrana","Novo Gama","Novo Repartimento","Olinda","Oriximiná","Osasco","Ouricuri","Ourinhos","Pacajus","Palhoça","Palmares","Palmeira Dos Índios","Paracatu","Paragominas","Paraíso Do Tocantins","Parnamirim","Parnaíba","Passos","Patrocínio","Paudalho","Paulista","Paulo Afonso","Paço Do Lumiar","Penedo","Peruíbe","Petrolina","Pindamonhangaba","Piracicaba","Pirapora","Pirassununga","Planaltina","Ponta Grossa","Porto Alegre","Porto Ferreira","Porto Seguro","Porto Velho","Pouso Alegre","Poá","Praia Grande","Presidente Prudente","Primavera Do Leste","Queimados","Quirinópolis","Quixeramobim","Resende","Ribeirão Das Neves","Rio Bonito","Rio Das Ostras","Rio Do Sul","Rio Largo","Rolândia","Rondonópolis","Russas","Sabará","Salgueiro","Salto","Santa Bárbara D'oeste","Santa Cruz Do Capibaribe","Santa Isabel","Santa Isabel Do Pará","Santa Luzia","Santa Rita","Santana De Parnaíba","Santo André","Santo Antônio De Jesus","Santo Antônio Do Descoberto","Santos","Saquarema","Sarandi","Senhor Do Bonfim","Seropédica","Serra Talhada","Serrinha","Sertãozinho","Sete Lagoas","Sidrolândia","Simões Filho","Sobral","Sorocaba","Sorriso","Surubim","Suzano","São Bernardo Do Campo","São Caetano Do Sul","São Carlos","São Francisco","São Gonçalo Do Amarante","São José","São José Do Rio Pardo","São José Do Rio Preto","São José Dos Pinhais","São Lourenço Da Mata","São Miguel Dos Campos","São Pedro Da Aldeia","São Sebastião","São Sebastião Do Paraíso","São Vicente","Tabatinga","Taboão Da Serra","Tailândia","Tangará Da Serra","Teresópolis","Teófilo Otoni","Tianguá","Timbaúba","Timon","Tobias Barreto","Toledo","Trairi","Três Corações","Três Lagoas","Tucano","Tupã","Tutóia","Ubatuba","Ubá","Valença","Valinhos","Valparaíso De Goiás","Vilhena","Viçosa","Volta Redonda","Votuporanga","Várzea Grande","Várzea Paulista","Zé Doca","Águas Lindas De Goiás","Óbidos","Bagé","Campo Bom","Canoinhas","Capão Da Canoa","Castro","Farroupilha","Laranjal Do Jari","Parobé","Prudentópolis","Sant'ana Do Livramento","Santo Amaro","São Gabriel","Tramandaí","Ulianópolis","União Da Vitória","Uruguaiana","Vacaria","Viseu","Abaetetuba","Acará","Acopiara","Alagoinhas","Altamira","Amparo","Ananindeua","Andradina","Aparecida De Goiânia","Aracaju","Araguari","Araguaína","Araraquara","Barra Do Corda","Barreiras","Belo Horizonte","Belém","Boa Viagem","Boa Vista","Bom Jesus Da Lapa","Bragança","Brasília","Brejo Santo","Brumado","Caldas Novas","Cametá","Campinas","Campo Grande","Campos Dos Goytacazes","Carpina","Cascavel","Castanhal","Catalão","Caucaia","Caxias","Chapadinha","Coari","Coronel Fabriciano","Crateús","Crato","Cuiabá","Curvelo","Duque De Caxias","Feira De Santana","Fortaleza","Foz Do Iguaçu","Goianésia","Goiânia","Governador Valadares","Granja","Guarapari","Gurupi","Icó","Igarassu","Iguatu","Imperatriz","Ipatinga","Irecê","Itaituba","Itapipoca","Jacobina","Jacundá","João Pessoa","Juiz De Fora","Limoeiro","Linhares","Londrina","Luziânia","Macapá","Macaé","Manacapuru","Manaus","Marabá","Maracanaú","Maricá","Marituba","Mineiros","Moju","Monte Alegre","Mossoró","Natal","Naviraí","Nilópolis","Niterói","Nova Iguaçu","Nova Lima","Olímpia","Pacatuba","Palmas","Parauapebas","Parintins","Patos","Patos De Minas","Paulínia","Petrópolis","Piripiri","Ponta Porã","Pontal","Ponte Nova","Porto Nacional","Quixadá","Recife","Redenção","Ribeira Do Pombal","Ribeirão Preto","Rio Branco","Rio Claro","Rio De Janeiro","Rio Verde","Rurópolis","Salvador","Santa Inês","Santa Luzia","Santana","Santarém","Senador Canedo","Sinop","Sousa","Sumaré","São Félix Do Xingu","São Gonçalo","São Joaquim Da Barra","São José De Ribamar","São José Dos Campos","São João De Meriti","São Luís","São Paulo","Taubaté","Tauá","Tefé","Teresina","Timóteo","Trindade","Tucuruí","Uberaba","Uberlândia","Vargem Grande","Varginha","Vespasiano","Vitória Da Conquista","Vitória De Santo Antão"],["RS","MG","RS","BA","ES","SC","PR","SP","MG","MA","PB","RS","PE","SC","SP","PE","PA","PA","MA","PE","RS","RS","ES","BA","PB","RS","SC","MG","BA","PR","SP","PR","SP","BA","RS","PA","RS","ES","BA","BA","RS","SC","SP","SP","MA","ES","PR","SC","MG","AL","SP","SP","SC","GO","RS","BA","BA","PA","SP","RS","PE","MG","RS","RS","BA","PR","MG","SP","SC","RS","RJ","PR","RS","MG","SP","RS","SC","BA","PR","BA","BA","SC","BA","SP","SP","SP","MG","SP","PA","SC","RO","SC","SC","RS","SP","SP","SC","SP","AM","MG","SC","SE","SP","ES","RS","MG","PR","RJ","PR","PR","MG","RS","PR","MG","RS","SP","PE","PI","SP","PR","MA","PR","PA","SP","MG","SP","SP","RS","SP","RO","PA","RS","RS","RS","PA","BA","RS","RS","RS","PB","ES","SC","PE","RS","SE","SC","SP","MG","RS","ES","PA","SP","RS","SP","SP","BA","PR","PA","MG","RJ","SC","PR","MG","AL","BA","SP","RS","RS","MA","ES","SC","PA","ES","SP","ES","CE","SP","SC","PE","CE","PA","PR","MT","SP","RJ","GO","PR","CE","CE","AL","PR","SP","PE","RJ","MG","SP","PE","RO","SP","SP","SP","SP","MA","RN","MA","SC","MA","CE","PA","BA","MT","RJ","RJ","SP","SP","SP","SP","SP","CE","RJ","PE","PA","SP","MG","SP","SC","MG","SP","MG","SP","SC","PB","PE","RJ","SP","RJ","RO","RN","SP","SP","PE","BA","PR","CE","PB","AL","CE","PA","SP","SP","SP","MG","PE","PR","MG","SP","RN","SC","PR","GO","BA","MG","MG","MA","MS","SP","AC","SP","PR","MT","AL","SP","MG","MS","SP","SE","BA","CE","SP","SP","PI","SC","GO","SP","PR","SP","MG","PE","PE","MA","PE","BA","PB","SP","SP","SP","MG","CE","SP","AM","PR","SP","PA","BA","SP","GO","PA","PE","SE","MG","MG","RJ","BA","AM","RJ","SC","MG","SP","CE","SP","MA","RJ","SP","SP","SP","SP","SP","MG","GO","PE","SP","SP","BA","SP","MG","SP","MG","RJ","GO","SC","GO","SP","BA","RO","MG","BA","CE","SP","PA","SE","MA","MG","MG","BA","MG","MG","SP","CE","SP","SP","SP","MT","BA","RN","BA","AL","RJ","MG","CE","PR","AL","PR","SP","SP","SP","AM","RJ","SP","SP","SP","SP","SP","SP","SP","SP","RS","MG","CE","PE","MG","MS","RJ","MG","GO","PA","PE","PA","SP","PE","SP","CE","SC","PE","AL","MG","PA","TO","RN","PI","MG","MG","PE","PE","BA","MA","AL","SP","PE","SP","SP","MG","SP","GO","PR","RS","SP","BA","RO","MG","SP","SP","SP","MT","RJ","GO","CE","RJ","MG","RJ","RJ","SC","AL","PR","MT","CE","MG","PE","SP","SP","PE","SP","PA","MA","PB","SP","SP","BA","GO","SP","RJ","PR","BA","RJ","PE","BA","SP","MG","MS","BA","CE","SP","MT","PE","SP","SP","SP","SP","MG","RN","SC","SP","SP","PR","PE","AL","RJ","SP","MG","SP","AM","SP","PA","MT","RJ","MG","CE","PE","MA","SE","PR","CE","MG","MS","BA","SP","MA","SP","MG","RJ","SP","GO","RO","MG","RJ","SP","MT","SP","MA","GO","PA","RS","RS","SC","RS","PR","RS","AP","RS","PR","RS","BA","RS","RS","PA","PR","RS","RS","PA","PA","PA","CE","BA","PA","SP","PA","SP","GO","SE","MG","TO","SP","MA","BA","MG","PA","CE","RR","BA","PA","DF","CE","BA","GO","PA","SP","MS","RJ","PE","CE","PA","GO","CE","MA","MA","AM","MG","CE","CE","MT","MG","RJ","BA","CE","PR","GO","GO","MG","CE","ES","TO","CE","PE","CE","MA","MG","BA","PA","CE","BA","PA","PB","MG","PE","ES","PR","GO","AP","RJ","AM","AM","PA","CE","RJ","PA","GO","PA","PA","RN","RN","MS","RJ","RJ","RJ","MG","SP","CE","TO","PA","AM","PB","MG","SP","RJ","PI","MS","SP","MG","TO","CE","PE","PA","BA","SP","AC","SP","RJ","GO","PA","BA","MA","MG","AP","PA","GO","MT","PB","SP","PA","RJ","SP","MA","SP","RJ","MA","SP","SP","CE","AM","PI","MG","GO","PA","MG","MG","MA","MG","MG","BA","PE"]],"container":"<table class=\"display\">\n  <thead>\n    <tr>\n      <th> <\/th>\n      <th>group<\/th>\n      <th>name_muni<\/th>\n      <th>abbrev_state<\/th>\n    <\/tr>\n  <\/thead>\n<\/table>","options":{"columnDefs":[{"orderable":false,"targets":0}],"order":[],"autoWidth":false,"orderClasses":false},"selection":{"mode":"multiple","selected":null,"target":"row","selectable":null}},"evals":[],"jsHooks":[]}</script>
 </div>
 </div>
 <div class="cell">
